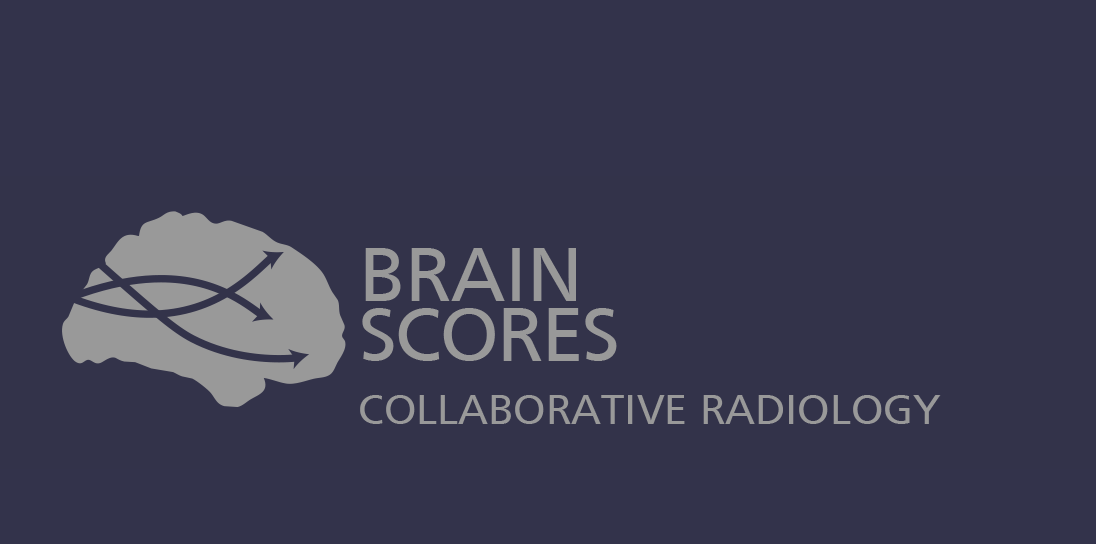
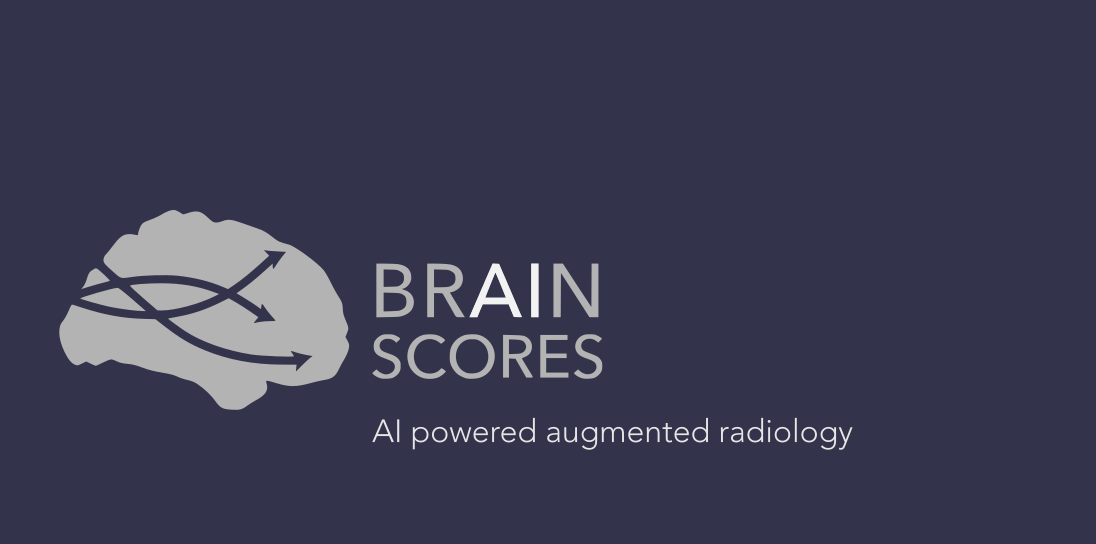
Updated info and photos

Changed region(s): [[0.031, 0.375, 0.8686, 0.8438]]

diff --git a/index.html b/index.html
@@ -2,7 +2,7 @@
 <html>
 <head>
 <meta charset="utf-8">
-<title>BRAINSCORES  | Collaborative Radiology</title>
+<title>BRAINSCORES  | Augmented Radiology</title>
 <meta name="description" content="BRAINSCORES">
 <meta name="author" content="boris@bic.mni.mcgill.ca">
 <meta name="viewport" content="width=device-width, initial-scale=1">
@@ -41,12 +41,12 @@
 </section>
 
 <section class="some-related-articles" id="about">
-  <h1 id="current" >COLLABORATIVE RADIOLOGY</h1>
+  <h1 id="current" >AUGMENTED RADIOLOGY</h1>
    <table style="width:100%">
 		<tr>
 			<td style="width:350px; text-align:left">
 			<p>
-			Brainscores is a novel collaborative and AI powered medical image analysis platform to revolutionize diganostics for the most common brain disorders. Developed by experts in medical imaging, AI, and software engineering, Brainscores will provide unprecedented ways for medical doctors, engineers, and data scientists to team up in solving each patient's medical needs. </br>
+			Brainscores is a novel  AI powered medical image analysis platform to revolutionize diganostics for the most common brain disorders. Developed by experts in medical imaging, AI, and software engineering, Brainscores will provide unprecedented ways for medical doctors, engineers, and data scientists to team up in solving each patient's medical needs. </br>
 			</p>
 	   		<center> 
 		   		<img class="img-circle" src="assets/brain.png" width="800px" alt="brain">
@@ -90,10 +90,10 @@
 		<ul> 
 			<li>MultiStream: Multimodal data processing (T1-weighted, FLAIR, Diffusion, Microstructure, Functional) </li> 
 			<li>MultiFuse:  Multimodal data integration into a common view</li> 
-			<li>ImageCollab: Chat functionality at the level of imaging data</li> 
-			<li>BrainScorer: Normative model image diagnostic</li> 
+			<li>BrainScorer: Probability based image diagnostic</li> 
 			<li>AIAssist: AI technology to highlight significant deviations</li> 
 			<li>CaseReporter: Automated radiological report generator</li> 
+			<li>NeuroNavegation: Support to download and use our results with neurosurgery assisted hardware</li> 
 		</ul>
 	
 			</td>	
@@ -114,31 +114,47 @@ This project is being developed by the <a href="http://mica-mni.github.io" targe
 <br><br>
 </p>
 <table style="width:100%">
+
+		<tr>		
+			<td style="width:160px" valign="top">
+				<img class="img-circle" src="assets/bo.jpg" width="150px" alt="boris"></br>
+
+			</td>
+			<td style="width:10px" valign="top">
+			</td>
+			<td style="width:320px" valign="top" align="left">
+				<p class="summary3">Boris Bernhardt, PhD</br> 
+				Associate Professor of Neurology and Neurosurgery</br> 
+				Montreal Neurological Institute</br> 
+				Co-founder, Project facilitator</br>
+				<a class="onblue" href="mailto:boris.bernhardt@mcgill.ca">email</a></p>
+			</td>
+		</tr>
+
   		<tr>
-			
     		<td style="width:160px" valign="top">
-    		 	<img class="img-circle" src="assets/ou.png" width="150px" alt="oualid">
+    		 	<img class="img-circle" src="assets/rrc.png" width="150px" alt="raul">
     		</td> 
     		<td style="width:10px" valign="top">
     		</td>
     		<td style="width:320px" valign="top">
-    		 	   <p class="summary3">Oualid Benkarim, PhD</br>
+    		 	   <p class="summary3">Raul R Cruces, MD PhD</br>
 					Postdoctoral researcher</br> 
 					Montreal Neurological Institute</br> 
-					Development lead</br> 
-			<a class="onblue" href="mailto:oualid.benkarim@mcgill.ca">email</a></br>
+					Co-founder, core developer</br> 
+			<a class="onblue" href="mailto:raul.rodriguezcruces@mcgill.ca">email</a></br>
 			</p>
     		</td>
   		</tr>
   		
   		<tr>	
     		<td style="width:160px" valign="top">
-    		 	<img class="img-circle" src="assets/farzad.jpg" width="150px" alt="farzad">
+    		 	<img class="img-circle" src="assets/ian.png" width="150px" alt="farzad">
     		</td> 
     		<td style="width:10px" valign="top">
     		</td>
     		<td style="width:320px" valign="top">
-    		 	   <p class="summary3">Farzad Sharif</br>
+    		 	   <p class="summary3">Ian Goodall-Halliwell</br>
 					Software developer</br> 
 					Backend programmer</br>		
 			</p>
@@ -173,21 +189,6 @@ This project is being developed by the <a href="http://mica-mni.github.io" targe
 			</td>
 		</tr>
 
-  		<tr>		
-    		<td style="width:160px" valign="top">
-    			<img class="img-circle" src="assets/bo.jpg" width="150px" alt="boris"></br>
-
-    		</td>
-    		<td style="width:10px" valign="top">
-    		</td>
-    		<td style="width:320px" valign="top" align="left">
-    		     <p class="summary3">Boris Bernhardt, PhD</br> 
-     			Associate Professor of Neurology and Neurosurgery</br> 
-     			Montreal Neurological Institute</br> 
-     			Project facilitator</br>
-     			<a class="onblue" href="mailto:boris.bernhardt@mcgill.ca">email</a></p>
-			</td>
-		</tr>
 	</table>
 <br>
 </section>
@@ -222,7 +223,7 @@ This project is being developed by the <a href="http://mica-mni.github.io" targe
     <p class="summary">Multimodal Imaging and Connectome Analysis Lab</br>
     Montreal Neurological Institute and Hospital</br>
     3801 University Street, Montreal, QC, H3A 2B4, Canada</br>
-    <a class="onblue" href="mailto:boris.bernhardt@mcgill.ca;oualid.benkarim@mcgill.ca">email</a></br>
+    <a class="onblue" href="mailto:boris.bernhardt@mcgill.ca;raul.rodriguezcruces@mcgill.ca">email</a></br>
     Phone: 514 398 3579</br>
     </p>
   <br>
